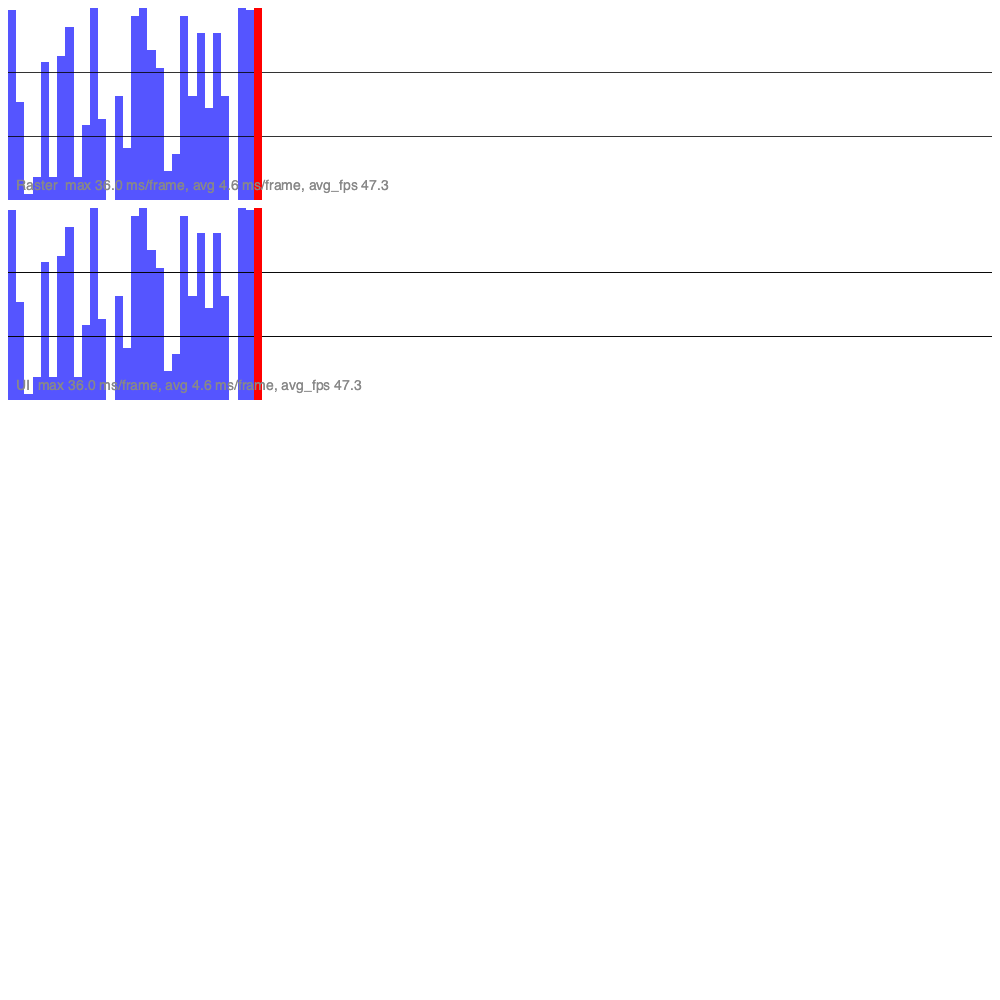
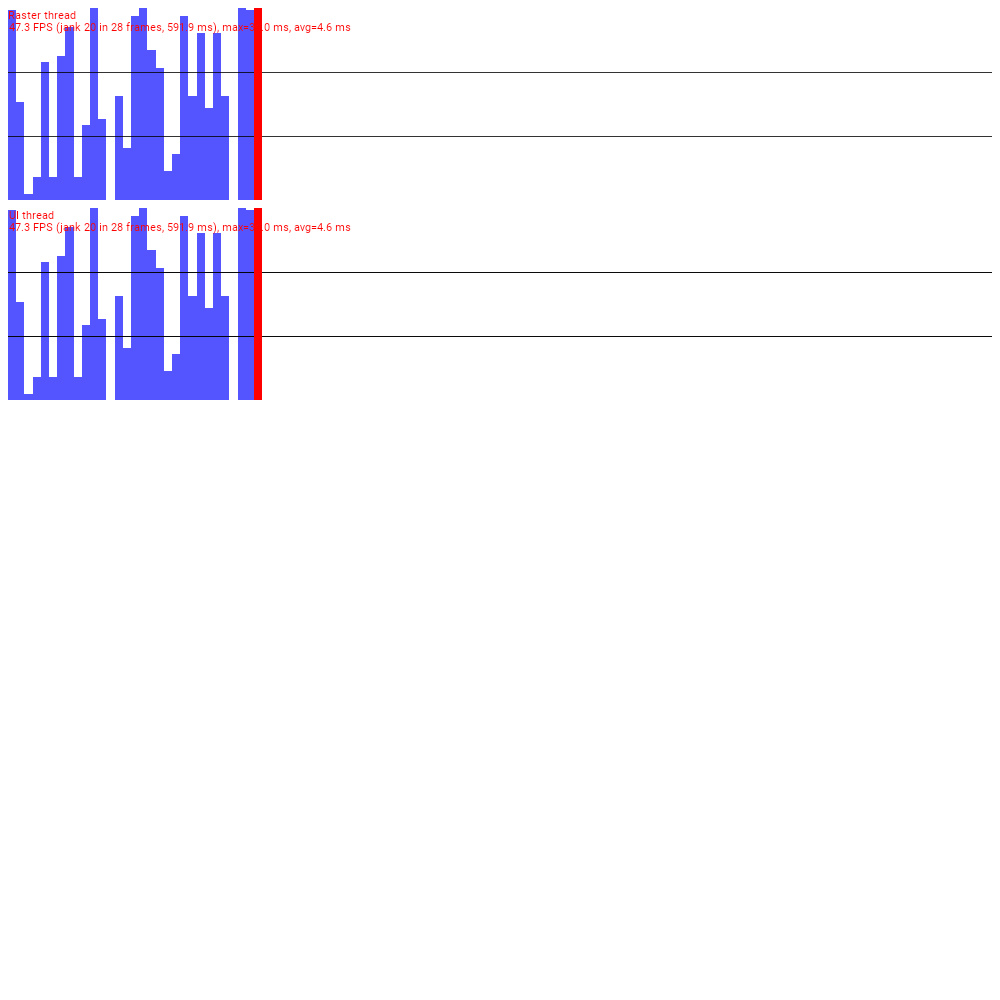
Add FPS average duration, janky info and make UI more pretty.

diff --git a/flow/layers/performance_overlay_layer.cc b/flow/layers/performance_overlay_layer.cc
@@ -5,7 +5,6 @@
 #include "flutter/flow/layers/performance_overlay_layer.h"
 
 #include <iomanip>
-#include <iostream>
 #include <string>
 
 #include "third_party/skia/include/core/SkFont.h"
@@ -24,8 +23,8 @@ void VisualizeStopWatch(SkCanvas* canvas,
                         bool show_labels,
                         const std::string& label_prefix,
                         const std::string& font_path) {
-  const int label_x = 8;    // distance from x
-  const int label_y = -10;  // distance from y+height
+  const int margin_top = 3;
+  const int margin_left = 1;
 
   if (show_graph) {
     SkRect visualization_rect = SkRect::MakeXYWH(x, y, width, height);
@@ -33,39 +32,74 @@ void VisualizeStopWatch(SkCanvas* canvas,
   }
 
   if (show_labels) {
-    auto text = PerformanceOverlayLayer::MakeStatisticsText(
-        stopwatch, label_prefix, font_path);
+    SkFont font;
+    if (!font_path.empty()) {
+      font = SkFont(SkTypeface::MakeFromFile(font_path.c_str()));
+    }
+    font.setSize(PerformanceOverlayLayer::kFontSize);
+
+    auto label = PerformanceOverlayLayer::MakeLabelText(label_prefix, font);
+    const SkRect& label_bounds = label.bounds;
+    auto statistics =
+        PerformanceOverlayLayer::MakeStatisticsText(stopwatch, font);
+    const SkRect& statistics_bounds = statistics.bounds;
+
     SkPaint paint;
-    paint.setColor(SK_ColorGRAY);
-    canvas->drawTextBlob(text, x + label_x, y + height + label_y, paint);
+    paint.setColor(SK_ColorRED);
+
+    // Draw the label on the first line.
+    canvas->drawTextBlob(label.text_blob, x + margin_left - label_bounds.left(),
+                         y + margin_top - label_bounds.top(), paint);
+    // Draw the statistics text on the second line.
+    canvas->drawTextBlob(
+        statistics.text_blob, x + margin_left - statistics_bounds.left(),
+        y + margin_top * 2 - statistics_bounds.top() + label_bounds.height(),
+        paint);
   }
 }
 
 }  // namespace
 
-sk_sp<SkTextBlob> PerformanceOverlayLayer::MakeStatisticsText(
-    const Stopwatch& stopwatch,
-    const std::string& label_prefix,
-    const std::string& font_path) {
-  SkFont font;
-  if (font_path != "") {
-    font = SkFont(SkTypeface::MakeFromFile(font_path.c_str()));
-  }
-  font.setSize(13);
-
-  double max_ms_per_frame = stopwatch.MaxDelta().ToMillisecondsF();
-  double average_ms_per_frame = stopwatch.AverageDelta().ToMillisecondsF();
-  double average_fps = stopwatch.AverageFps();
+PerformanceOverlayLayer::TextBlobAndBounds
+PerformanceOverlayLayer::MakeLabelText(const std::string& label_prefix,
+                                       const SkFont& font) {
   std::stringstream stream;
   stream.setf(std::ios::fixed | std::ios::showpoint);
   stream << std::setprecision(1);
-  stream << label_prefix << "  "
-         << "max " << max_ms_per_frame << " ms/frame, "
-         << "avg " << average_ms_per_frame << " ms/frame, "
-         << "avg_fps " << average_fps;
+  stream << label_prefix << " thread";
   auto text = stream.str();
-  return SkTextBlob::MakeFromText(text.c_str(), text.size(), font,
-                                  SkTextEncoding::kUTF8);
+  SkRect measured_bounds{};
+  // The bounds measured by font is preciser than the SkTextBlob's bounds.
+  font.measureText(text.c_str(), text.size(), SkTextEncoding::kUTF8,
+                   &measured_bounds);
+  return TextBlobAndBounds{
+      .text_blob = SkTextBlob::MakeFromText(text.c_str(), text.size(), font,
+                                            SkTextEncoding::kUTF8),
+      .bounds = measured_bounds};
+}
+
+PerformanceOverlayLayer::TextBlobAndBounds
+PerformanceOverlayLayer::MakeStatisticsText(const Stopwatch& stopwatch,
+                                            const SkFont& font) {
+  double max_ms_per_frame = stopwatch.MaxDelta().ToMillisecondsF();
+  double average_ms_per_frame = stopwatch.AverageDelta().ToMillisecondsF();
+  const Stopwatch::FpsInfo& fps_info = stopwatch.AverageFpsInfo();
+  std::stringstream stream;
+  stream.setf(std::ios::fixed | std::ios::showpoint);
+  stream << std::setprecision(1);
+  stream << fps_info.average_fps << " FPS (jank " << fps_info.janky_frame_count
+         << " in " << fps_info.frame_count << " frames, "
+         << fps_info.total_time_ms << " ms), max=" << max_ms_per_frame
+         << " ms, avg=" << average_ms_per_frame << " ms";
+  auto text = stream.str();
+  SkRect measured_bounds{};
+  // The bounds measured by font is preciser than the SkTextBlob's bounds.
+  font.measureText(text.c_str(), text.size(), SkTextEncoding::kUTF8,
+                   &measured_bounds);
+  return TextBlobAndBounds{
+      .text_blob = SkTextBlob::MakeFromText(text.c_str(), text.size(), font,
+                                            SkTextEncoding::kUTF8),
+      .bounds = measured_bounds};
 }
 
 PerformanceOverlayLayer::PerformanceOverlayLayer(uint64_t options,

diff --git a/flow/layers/performance_overlay_layer_unittests.cc b/flow/layers/performance_overlay_layer_unittests.cc
@@ -150,6 +150,19 @@ TEST_F(PerformanceOverlayLayerTest, InvalidOptions) {
   EXPECT_EQ(mock_canvas().draw_calls(), std::vector<MockCanvas::DrawCall>());
 }
 
+TEST_F(PerformanceOverlayLayerTest, GetAverageFpsInfoTest) {
+  flutter::Stopwatch mock_stopwatch(fml::RefreshRateToFrameBudget(60));
+  for (int i = 0; i < size(kMockedTimes); ++i) {
+    mock_stopwatch.SetLapTime(
+        fml::TimeDelta::FromMilliseconds(kMockedTimes[i]));
+  }
+  const Stopwatch::FpsInfo& fps_info = mock_stopwatch.AverageFpsInfo();
+  EXPECT_EQ(fps_info.frame_count, 28);
+  EXPECT_EQ(fps_info.janky_frame_count, 17);
+  EXPECT_DOUBLE_EQ(fps_info.total_time_ms, 643.333333333333);
+  EXPECT_DOUBLE_EQ(fps_info.average_fps, 43.52331606217616);
+}
+
 TEST_F(PerformanceOverlayLayerTest, SimpleRasterizerStatistics) {
   const SkRect layer_bounds = SkRect::MakeLTRB(0.0f, 0.0f, 64.0f, 64.0f);
   const uint64_t overlay_opts = kDisplayRasterizerStatistics;
@@ -164,12 +177,37 @@ TEST_F(PerformanceOverlayLayerTest, SimpleRasterizerStatistics) {
   EXPECT_TRUE(layer->needs_painting(paint_context()));
 
   layer->Paint(paint_context());
-  auto overlay_text = PerformanceOverlayLayer::MakeStatisticsText(
-      paint_context().raster_time, "Raster", "");
-  auto overlay_text_data = overlay_text->serialize(SkSerialProcs{});
+
+  SkFont font;
+  font.setSize(PerformanceOverlayLayer::kFontSize);
+
+  const int margin_top = 3;
+  const int margin_left = 1;
+  const int padding = 8;
+
+  // The label data on the first line.
+  auto overlay_label_text =
+      PerformanceOverlayLayer::MakeLabelText("Raster", font);
+  auto overlay_label_data =
+      overlay_label_text.text_blob->serialize(SkSerialProcs{});
+  float label_left = padding + margin_left - overlay_label_text.bounds.left();
+  float label_top = padding + margin_top - overlay_label_text.bounds.top();
+  SkPoint label_position = SkPoint::Make(label_left, label_top);
+
+  // The statistics data on the second line.
+  auto overlay_statistics_text = PerformanceOverlayLayer::MakeStatisticsText(
+      paint_context().raster_time, font);
+  auto overlay_statistics_data =
+      overlay_statistics_text.text_blob->serialize(SkSerialProcs{});
+  float statistics_left =
+      padding + margin_left - overlay_statistics_text.bounds.left();
+  float statistics_top = padding + margin_top * 2 -
+                         overlay_statistics_text.bounds.top() +
+                         overlay_label_text.bounds.height();
+  SkPoint statistics_position = SkPoint::Make(statistics_left, statistics_top);
+
   SkPaint text_paint;
-  text_paint.setColor(SK_ColorGRAY);
-  SkPoint text_position = SkPoint::Make(16.0f, 22.0f);
+  text_paint.setColor(SK_ColorRED);
 
   // TODO(https://github.com/flutter/flutter/issues/82202): Remove once the
   // performance overlay can use Fuchsia's font manager instead of the empty
@@ -177,10 +215,16 @@ TEST_F(PerformanceOverlayLayerTest, SimpleRasterizerStatistics) {
 #if defined(OS_FUCHSIA)
   GTEST_SKIP() << "Expectation requires a valid default font manager";
 #endif  // OS_FUCHSIA
-  EXPECT_EQ(mock_canvas().draw_calls(),
-            std::vector({MockCanvas::DrawCall{
-                0, MockCanvas::DrawTextData{overlay_text_data, text_paint,
-                                            text_position}}}));
+  EXPECT_EQ(
+      mock_canvas().draw_calls(),
+      std::vector({
+          MockCanvas::DrawCall{
+              0, MockCanvas::DrawTextData{overlay_label_data, text_paint,
+                                          label_position}},
+          MockCanvas::DrawCall{
+              0, MockCanvas::DrawTextData{overlay_statistics_data, text_paint,
+                                          statistics_position}},
+      }));
 }
 
 TEST(PerformanceOverlayLayerDefault, Gold) {

diff --git a/flow/layers/layer.h b/flow/layers/layer.h
@@ -56,10 +56,10 @@ struct PrerollContext {
   const float frame_device_pixel_ratio;
 
   // These allow us to track properties like elevation, opacity, and the
-  // prescence of a platform view during Preroll.
+  // presence of a platform view during Preroll.
   bool has_platform_view = false;
   // These allow us to track properties like elevation, opacity, and the
-  // prescence of a texture layer during Preroll.
+  // presence of a texture layer during Preroll.
   bool has_texture_layer = false;
 
   // This value indicates that the entire subtree below the layer can inherit
@@ -71,7 +71,7 @@ struct PrerollContext {
   // constructor using the |set_layer_can_inherit_opacity| method and the
   // value will be accumulated and recorded by the |PrerollChidren| method
   // automatically.
-  // If the property is more dynamic then the Layer can dynamically set this
+  // If the property is more dynamic than the Layer can dynamically set this
   // flag before returning from the |Preroll| method.
   // For ContainerLayers that need to know if their children can inherit
   // the value, the |PrerollChildren| method will have set this value in
@@ -88,7 +88,7 @@ class PerformanceOverlayLayer;
 class TextureLayer;
 
 // Represents a single composited layer. Created on the UI thread but then
-// subquently used on the Rasterizer thread.
+// subsequently used on the Rasterizer thread.
 class Layer {
  public:
   Layer();

diff --git a/flow/instrumentation.cc b/flow/instrumentation.cc
@@ -75,22 +75,29 @@ fml::TimeDelta Stopwatch::AverageDelta() const {
   return sum / kMaxSamples;
 }
 
-double Stopwatch::AverageFps() const {
+Stopwatch::FpsInfo Stopwatch::AverageFpsInfo() const {
   double one_frame_ms = frame_budget_.count();
   int frame_count = 0;
-  double total_time = 0;
+  int janky_frame_count = 0;
+  double total_time_ms = 0;
   for (size_t i = 0; i < kMaxSamples; i++) {
     double frame_time_ms = laps_[i].ToMillisecondsF();
     if (frame_time_ms > 0) {
-      total_time += std::max(one_frame_ms, frame_time_ms);
+      total_time_ms += std::max(one_frame_ms, frame_time_ms);
       frame_count++;
+      if (frame_time_ms > one_frame_ms) {
+        janky_frame_count++;
+      }
     }
   }
   double max_fps = 1e3 / one_frame_ms;
-  double avg_fps = frame_count > 0 && total_time > 0
-                       ? 1e3 * frame_count / total_time
-                       : max_fps;
-  return avg_fps;
+  double average_fps = frame_count > 0 && total_time_ms > 0
+                           ? 1e3 * frame_count / total_time_ms
+                           : max_fps;
+  return FpsInfo{.frame_count = frame_count,
+                 .janky_frame_count = janky_frame_count,
+                 .total_time_ms = total_time_ms,
+                 .average_fps = average_fps};
 }
 
 // Initialize the SkSurface for drawing into. Draws the base background and any

diff --git a/flow/layers/performance_overlay_layer.h b/flow/layers/performance_overlay_layer.h
@@ -22,9 +22,19 @@ const int kVisualizeEngineStatistics = 1 << 3;
 
 class PerformanceOverlayLayer : public Layer {
  public:
-  static sk_sp<SkTextBlob> MakeStatisticsText(const Stopwatch& stopwatch,
-                                              const std::string& label_prefix,
-                                              const std::string& font_path);
+  /// Store SKTextBlob and more precise bounds measured by font and text.
+  struct TextBlobAndBounds {
+    sk_sp<SkTextBlob> text_blob;
+    SkRect bounds;
+  };
+
+  static constexpr SkScalar kFontSize = 11;
+
+  static TextBlobAndBounds MakeLabelText(const std::string& label_prefix,
+                                         const SkFont& font);
+
+  static TextBlobAndBounds MakeStatisticsText(const Stopwatch& stopwatch,
+                                              const SkFont& font);
 
   bool IsReplacing(DiffContext* context, const Layer* layer) const override {
     return layer->as_performance_overlay_layer() != nullptr;

diff --git a/flow/instrumentation.h b/flow/instrumentation.h
@@ -28,7 +28,14 @@ class Stopwatch {
 
   fml::TimeDelta AverageDelta() const;
 
-  double AverageFps() const;
+  struct FpsInfo {
+    int frame_count;
+    int janky_frame_count;
+    double total_time_ms;
+    double average_fps;
+  };
+
+  FpsInfo AverageFpsInfo() const;
 
   void InitVisualizeSurface(const SkRect& rect) const;
 
